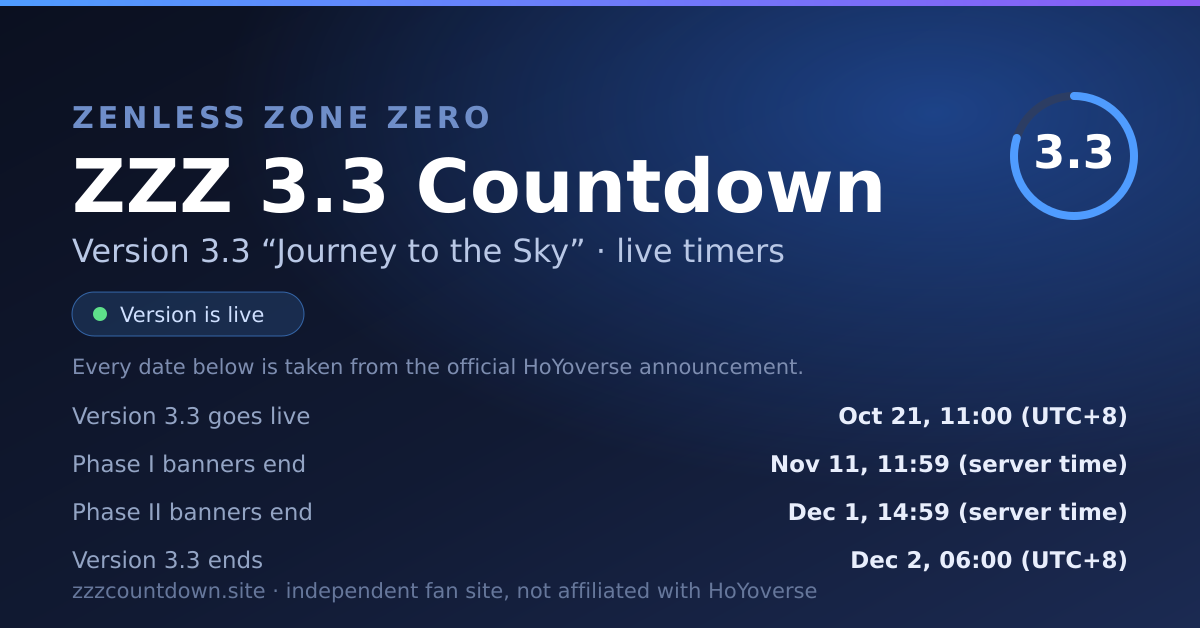
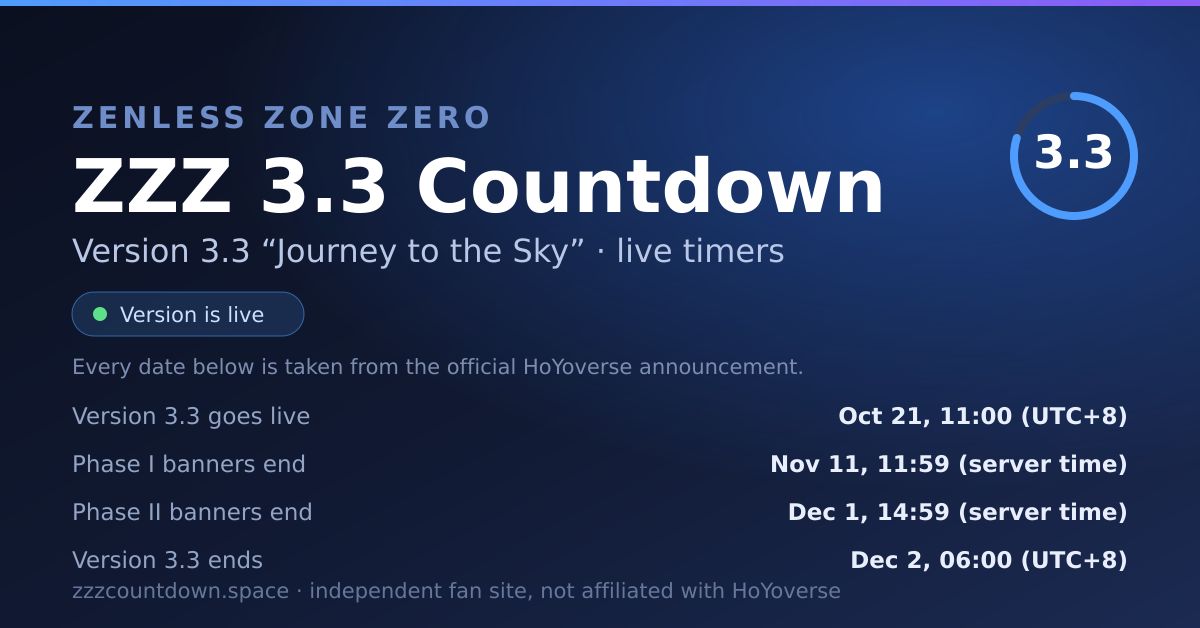
Move the site to zzzcountdown.space and add Google Analytics 4
The canonical host is now zzzcountdown.space. Everything that names the
site derives from one switch, SITE_URL: the canonical link, the Open Graph
URL, the sitemap, robots.txt and the social card. The card used to carry a
hardcoded host that matched nothing, and set-site-url.mjs ignored .env, so
the local build and the deployment could disagree; both are fixed.

Google Analytics 4 (G-6S85YYNPTX) is loaded from PUBLIC_GA_ID, so the
measurement ID is a build setting rather than a tracked value. The privacy
page said no analytics service was running, which would have become a false
disclosure the moment the tag was added, so it now names the provider, what
it measures, the _ga cookie and its retention, and an opt-out link.

verify grows two groups of assertions: the analytics tag and the privacy
disclosure have to agree, and the five places that name the host have to
agree with each other with no old host left behind.

Changed region(s): [[0.185, 0.9076, 0.7092, 0.9682]]

diff --git a/README.md b/README.md
@@ -113,13 +113,13 @@ The site is rebuilt for every version (roughly every six weeks):
 
 ## Deployment to Cloudflare Pages
 
-The site is live at <https://zzz-countdown.pages.dev> (project `zzz-countdown`,
+The site is live at <https://zzzcountdown.space> (project `zzz-countdown`,
 production branch `main`).
 
 Deploy from a local machine:
 
 ```bash
-SITE_URL=https://zzz-countdown.pages.dev npm run build
+SITE_URL=https://zzzcountdown.space npm run build
 npx wrangler pages deploy dist --project-name=zzz-countdown --branch=main
 ```
 
@@ -140,8 +140,55 @@ gh secret set CLOUDFLARE_API_TOKEN --repo liulei2140/zzz-countdown
 gh secret set CLOUDFLARE_ACCOUNT_ID --repo liulei2140/zzz-countdown --body f347ea77ea0eb80226457a78b20baf3a
 ```
 
+## Custom domain
+
+The canonical host is `zzzcountdown.space`. The zone is hosted on Cloudflare
+(the registrar stays Spaceship; only the name servers moved), and the Pages
+project `zzz-countdown` has both `zzzcountdown.space` and
+`www.zzzcountdown.space` attached as custom domains.
+
+| Where                 | Record                                                        |
+| --------------------- | ------------------------------------------------------------- |
+| Cloudflare DNS        | `CNAME @` → `zzz-countdown.pages.dev` (proxied)               |
+| Cloudflare DNS        | `CNAME www` → `zzz-countdown.pages.dev` (proxied)             |
+| Registrar (Spaceship) | NS → `desiree.ns.cloudflare.com`, `quinton.ns.cloudflare.com` |
+
+Cloudflare flattens the apex CNAME, so the root domain resolves without an A
+record.
+
+Everything on the site derives from one switch. `SITE_URL` rewrites the `site:`
+field in `src/config.yaml`, and the canonical link, Open Graph URL, sitemap,
+`robots.txt` and the Open Graph card all follow it — nothing else names the
+host. `npm run verify` asserts that those five agree with each other and that
+no host from an earlier domain is left behind.
+
+The Pages host `zzz-countdown.pages.dev` stays reachable as a fallback. To
+send it to the custom domain instead, add a redirect rule in
+`public/_redirects`:
+
+```
+/* https://zzzcountdown.space/:splat 301
+```
+
+## Analytics
+
+Google Analytics 4 runs with the measurement ID `G-6S85YYNPTX`. The ID comes
+from the build environment — `PUBLIC_GA_ID` — so it can be changed without
+editing a tracked file:
+
+| Where     | How                                                                           |
+| --------- | ----------------------------------------------------------------------------- |
+| Local     | `PUBLIC_GA_ID=...` in `.env` (not tracked)                                    |
+| CI        | the `PUBLIC_GA_ID` repository variable                                        |
+| Component | `src/components/common/Analytics.astro` loads the tag only when the ID is set |
+
+`/privacy` names the provider, what it measures, the `_ga` cookie and its
+retention, and an opt-out link. `npm run verify` fails if the tag and the
+disclosure disagree.
+
 ## Notes
 
 - The site is an independent fan project and is not affiliated with HoYoverse.
 - The go-live minute is an estimate (official maintenance start + “about five hours”); the pages label it as such.
-- `src/config.yaml` holds a placeholder domain until `SITE_URL` is set.
+- `src/config.yaml` holds the canonical host. It is rewritten on every build from `SITE_URL`
+  (the environment variable wins; `.env` is the fallback).

diff --git a/AGENTS.md b/AGENTS.md
@@ -8,7 +8,7 @@ built on [AstroWind](https://github.com/arthelokyo/astrowind) (Astro 7 +
 Tailwind CSS v4), which is MIT licensed — keep `LICENSE.md` and the attribution
 in the README.
 
-Live site: <https://zzz-countdown.pages.dev>
+Live site: <https://zzzcountdown.space> (custom domain; the Pages host `zzz-countdown.pages.dev` stays as the fallback)
 
 ## The one rule that matters
 
@@ -34,7 +34,7 @@ npm run preview    # serve the built site
 npm run verify     # DOM test of the built countdown behaviour
 ```
 
-`SITE_URL=https://zzz-countdown.pages.dev npm run build` rewrites the canonical
+`SITE_URL=https://zzzcountdown.space npm run build` rewrites the canonical
 host in `src/config.yaml` before building.
 
 ## Layout
